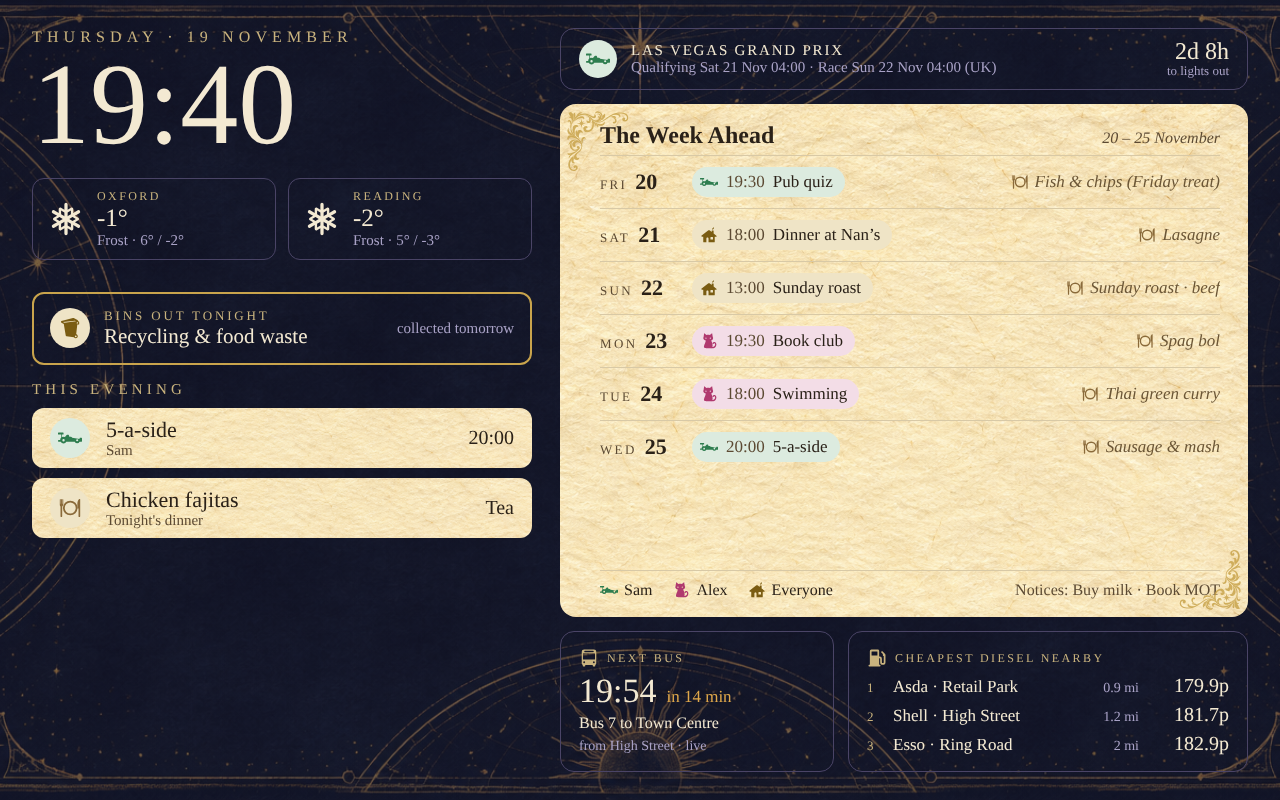
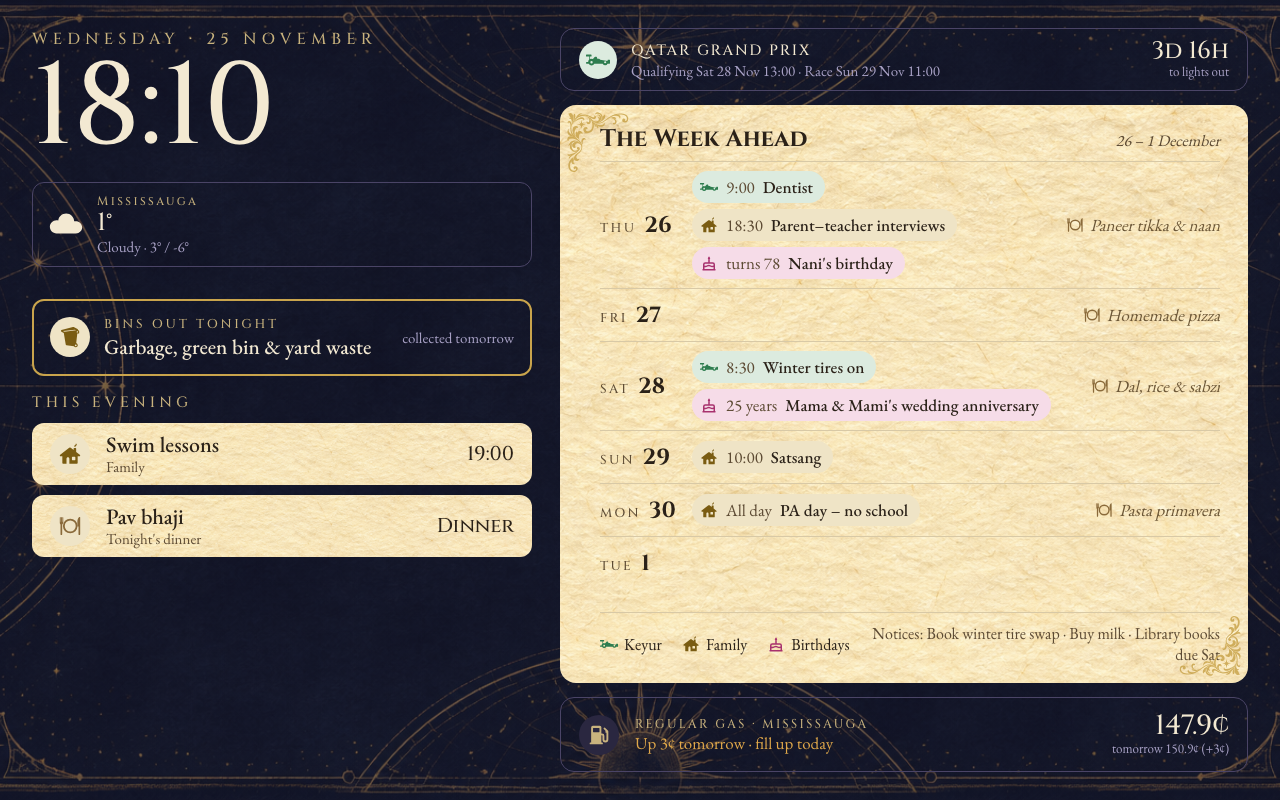
New README with fresh screenshots; fix night-mode frost line
- README rewritten for the family board: features, day-on-the-board screenshots,
  architecture diagram, old-iPad notes, setup, config, roadmap
- Screenshots retaken from the Canadian board (evening, iPad morning, night)
- Night mode: frost warning compared ISO times with a different date format and
  never showed; the info strip now wraps instead of running off screen

diff --git a/apps-script/Index.html b/apps-script/Index.html
@@ -84,7 +84,7 @@
       <span id="nClock" class="cz" style="font-size: 190px; line-height: 1; font-weight: 500; color: #8C86B0"></span>
       <span id="nMoon" class="row" style="gap: 10px; font-size: 18px; font-style: italic; color: #8C86B0"></span>
     </div>
-    <div id="nInfo" style="position: absolute; left: 50%; bottom: 72px; transform: translateX(-50%); display: flex; gap: 36px; align-items: center; padding: 14px 28px; border: 1px solid #2E2A48; border-radius: 999px; font-size: 18px; white-space: nowrap"></div>
+    <div id="nInfo" style="position: absolute; left: 50%; bottom: 60px; transform: translateX(-50%); display: flex; flex-wrap: wrap; justify-content: center; gap: 10px 36px; align-items: center; width: max-content; max-width: 1120px; padding: 14px 32px; border: 1px solid #2E2A48; border-radius: 32px; font-size: 18px"></div>
     <span id="nBattery" style="position: absolute; right: 28px; bottom: 24px; font-size: 14px; color: #8C86B0"></span>
   </div>
 </div>
@@ -455,12 +455,12 @@ function renderNight(now, p) {
   var adv = DATA && gasAdvice(DATA.gas);
   if (adv && DATA.gas.tomorrow.change >= 2 && minutesOfDay(now) >= NIGHT_FROM) info.push(svg('fuel', '#A9A2C6', 18) + '<span>Gas ' + esc(adv.text.toLowerCase()) + '</span>');
   var bTomorrow = DATA && DATA.birthdays ? bdaysOn(isoKey(now + (minutesOfDay(now) >= NIGHT_FROM ? 864e5 : 0))) : [];
-  if (bTomorrow.length) info.push(svg('cake', '#A9A2C6', 18) + '<span>' + esc(bTomorrow[0].title) + (bTomorrow.length > 1 ? ' +' + (bTomorrow.length - 1) : '') + '</span>');
-  $('nInfo').innerHTML = info.map(function (h) { return '<span class="row" style="gap: 8px">' + h + '</span>'; }).join('');
+  if (bTomorrow.length) info.push(svg('cake', '#A9A2C6', 18) + '<span>' + esc(bTomorrow[0].title) + ' tomorrow' + (bTomorrow.length > 1 ? ' (+' + (bTomorrow.length - 1) + ' more)' : '') + '</span>');
+  $('nInfo').innerHTML = info.map(function (h) { return '<span class="row" style="gap: 8px; white-space: nowrap">' + h + '</span>'; }).join('');
   $('nInfo').style.display = info.length ? 'flex' : 'none';
 }
 function nextMorningLow(w, now) {
-  var target = dayKey(now + (minutesOfDay(now) >= NIGHT_FROM ? 864e5 : 0));
+  var target = isoKey(now + (minutesOfDay(now) >= NIGHT_FROM ? 864e5 : 0));   // hourly times are ISO (2026-11-26T07:00)
   var low = null, h = w.hourly || { time: [], temp: [] };
   for (var i = 0; i < h.time.length; i++) {
     if (h.time[i].indexOf(target) === 0) {

diff --git a/web/index.html b/web/index.html
@@ -84,7 +84,7 @@
       <span id="nClock" class="cz" style="font-size: 190px; line-height: 1; font-weight: 500; color: #8C86B0"></span>
       <span id="nMoon" class="row" style="gap: 10px; font-size: 18px; font-style: italic; color: #8C86B0"></span>
     </div>
-    <div id="nInfo" style="position: absolute; left: 50%; bottom: 72px; transform: translateX(-50%); display: flex; gap: 36px; align-items: center; padding: 14px 28px; border: 1px solid #2E2A48; border-radius: 999px; font-size: 18px; white-space: nowrap"></div>
+    <div id="nInfo" style="position: absolute; left: 50%; bottom: 60px; transform: translateX(-50%); display: flex; flex-wrap: wrap; justify-content: center; gap: 10px 36px; align-items: center; width: max-content; max-width: 1120px; padding: 14px 32px; border: 1px solid #2E2A48; border-radius: 32px; font-size: 18px"></div>
     <span id="nBattery" style="position: absolute; right: 28px; bottom: 24px; font-size: 14px; color: #8C86B0"></span>
   </div>
 </div>
@@ -470,12 +470,12 @@ function renderNight(now, p) {
   var adv = DATA && gasAdvice(DATA.gas);
   if (adv && DATA.gas.tomorrow.change >= 2 && minutesOfDay(now) >= NIGHT_FROM) info.push(svg('fuel', '#A9A2C6', 18) + '<span>Gas ' + esc(adv.text.toLowerCase()) + '</span>');
   var bTomorrow = DATA && DATA.birthdays ? bdaysOn(isoKey(now + (minutesOfDay(now) >= NIGHT_FROM ? 864e5 : 0))) : [];
-  if (bTomorrow.length) info.push(svg('cake', '#A9A2C6', 18) + '<span>' + esc(bTomorrow[0].title) + (bTomorrow.length > 1 ? ' +' + (bTomorrow.length - 1) : '') + '</span>');
-  $('nInfo').innerHTML = info.map(function (h) { return '<span class="row" style="gap: 8px">' + h + '</span>'; }).join('');
+  if (bTomorrow.length) info.push(svg('cake', '#A9A2C6', 18) + '<span>' + esc(bTomorrow[0].title) + ' tomorrow' + (bTomorrow.length > 1 ? ' (+' + (bTomorrow.length - 1) + ' more)' : '') + '</span>');
+  $('nInfo').innerHTML = info.map(function (h) { return '<span class="row" style="gap: 8px; white-space: nowrap">' + h + '</span>'; }).join('');
   $('nInfo').style.display = info.length ? 'flex' : 'none';
 }
 function nextMorningLow(w, now) {
-  var target = dayKey(now + (minutesOfDay(now) >= NIGHT_FROM ? 864e5 : 0));
+  var target = isoKey(now + (minutesOfDay(now) >= NIGHT_FROM ? 864e5 : 0));   // hourly times are ISO (2026-11-26T07:00)
   var low = null, h = w.hourly || { time: [], temp: [] };
   for (var i = 0; i < h.time.length; i++) {
     if (h.time[i].indexOf(target) === 0) {

diff --git a/README.md b/README.md
@@ -1,72 +1,136 @@
-# Family Dashboard
+<div align="center">
 
-A free, always-on kitchen board for an old iPad or Android tablet, set up for a family in Mississauga, Ontario. It shows what the household needs at a glance: calendars, birthdays, the commute, bins, gas prices, notes and dinners. No subscriptions, no home server.
+# 🏡 Family Dashboard
 
-Based on [stewie1308-ui/FamilyDashboard](https://github.com/stewie1308-ui/FamilyDashboard), with the UK-only parts replaced by Canadian ones.
+**An always-on kitchen board for our family in Mississauga, running on an old iPad.**
 
-![Evening view](screenshots/evening.png)
+Calendars, birthdays, bins, gas prices, dinners and the F1 countdown, all in one place.<br>
+Free to run: no subscriptions, no home server, no app store.
 
-| Morning with a route alert | Night mode |
+![Platform](https://img.shields.io/badge/runs_on-old_iPad_·_Android_tablet-1C1A2E?style=flat-square)
+![Backend](https://img.shields.io/badge/backend-Google_Apps_Script-C9B37E?style=flat-square)
+![Cost](https://img.shields.io/badge/cost-$0%2Fmonth-2E7D4F?style=flat-square)
+![Licence](https://img.shields.io/badge/licence-MIT-A8326E?style=flat-square)
+
+![The board on a Wednesday evening](screenshots/evening.png)
+
+</div>
+
+---
+
+## ✨ What's on the board
+
+| | |
 |---|---|
-| ![Route alert](screenshots/alert.png) | ![Night](screenshots/night.png) |
+| 🕰 **Clock, date & weather** | Big serif clock, Mississauga weather, and a frost warning on cold mornings. |
+| 📅 **Today & the week ahead** | Pulled from the **Family** calendar (and Keyur's own), colour-coded per person. |
+| 🎂 **Birthdays & anniversaries** | From the *Birthdays and Anniversaries* calendar, with ages worked out from the year: "Nani's birthday · turns 78". |
+| 🗑 **Bins** | Peel's Thursday schedule: green bin weekly, garbage every other week, yard waste in season. "Bins out tonight" from 5pm the night before. |
+| ⛽ **Gas prices** | Today's Mississauga average and **tomorrow's predicted price** from [Gas Wizard](https://gaswizard.ca), with plain advice: *"Up 3¢ tomorrow · fill up today"*. |
+| 🍛 **Dinners** | From the family **meal tracker**. Nothing planned tonight? It suggests a favourite you haven't had in a while: *"How about chole bhature? Last had 6 weeks ago."* |
+| 🏎 **Formula 1** | Countdown to lights out, with qualifying and sprint times in Toronto time. |
+| 📝 **Notes** | A shared Todoist list anyone can add to from their phone. |
+| 🌙 **Night mode** | 23:00–06:30: a dim starry clock with tomorrow's essentials (bins, frost, first event, gas, birthdays). |
 
-## What it shows
+Every section is optional. Anything that isn't set up simply doesn't appear.
 
-- **Clock, date and weather** for up to two places, with frost warnings
-- **Today and the week ahead** from Google Calendar, colour-coded per person
-- **Birthdays and anniversaries** coming up, with ages ("turns 71")
-- **Commute:** live drive time and a leave-by time (adds extra minutes when it's frosty)
-- **Route alerts:** a push notification **only** when a crash or closure means a different route is quicker, with a one-tap Google Maps link. Morning and evening.
-- **Bins:** "bins out tonight", worked out from your collection pattern, so it stays out of your calendars
-- **Gas prices:** today's Mississauga average and tomorrow's predicted price from Gas Wizard, with "fill up today" or "wait" advice
-- **Formula 1 countdown**
-- **Dinners** from the family meal tracker, with a "haven't had it in a while" idea on unplanned nights
-- **Notes** from a shared Todoist project, so everyone can add them from their phones
-- **Night mode** (23:00–06:30): dimmed clock, moon phase, and a "bins / frost / tomorrow" line
+## 📸 A day on the board
 
-Every section is optional. Anything you don't set up simply doesn't appear.
+<table>
+<tr>
+<td width="50%"><img src="screenshots/ipad-morning.png" alt="Thursday morning on the iPad"></td>
+<td width="50%"><img src="screenshots/night.png" alt="Night mode"></td>
+</tr>
+<tr>
+<td><b>Thursday 7:38am, iPad (4:3).</b> A birthday, collection day, tonight's plans, and a dinner idea because nothing's planned yet.</td>
+<td><b>Wednesday 11:30pm, night mode.</b> Bins out, frost by morning, gas going up, and whose birthday it is tomorrow.</td>
+</tr>
+</table>
 
-## How it works
+## 🧱 How it works
 
+```mermaid
+flowchart LR
+    iPad["📱 Old iPad<br/>Safari · Guided Access"] -- "every 2 min" --> Script["⚙ Google Apps Script<br/>(our Google account, free)"]
+    Script --> Cal["📅 Google Calendar<br/>Family · Birthdays"]
+    Script --> Weather["🌤 Open-Meteo"]
+    Script --> Gas["⛽ Gas Wizard"]
+    Script --> Meals["🍛 Meal tracker<br/>(Supabase)"]
+    Script --> F1["🏎 Jolpica F1"]
+    Script --> Todo["📝 Todoist"]
 ```
-iPad (Safari, Guided Access) or Android tablet (Fully Kiosk Browser)
-   └─ board page (web/index.html, on GitHub Pages or Netlify)
-         └─ every 2 min asks for JSON ─► Google Apps Script (your account, free)
-                                            ├─ Google Calendar, Maps (traffic), Tasks
-                                            ├─ Open-Meteo (weather), Jolpica (F1)
-                                            ├─ Gas Wizard (gas prices), Todoist (notes)
-                                            ├─ meal tracker on Supabase (dinners)
-                                            └─ ntfy (push alerts)
+
+- **The board** is a single HTML page ([`web/index.html`](web/index.html)) laid out at 1280×800, or 1280×960 on a 4:3 iPad, and scaled to fit the screen.
+- **The data** comes from a small Google Apps Script ([`apps-script/`](apps-script)) that runs in our own Google account. It gathers every feed, caches it, and hands the board one JSON object. If one feed fails, the rest keep working.
+- **Secrets** (Supabase key, Todoist token) live in Apps Script's **Script properties**, never in this repo.
+
+## 🍎 Built for an old iPad
+
+The tablet is a retired iPad that stays on in the kitchen all the time, so the page is careful about old Safari:
+
+- Works on **iOS 10.3 and newer**. Spacing that old Safari can't do is replaced with margins, it uses `XMLHttpRequest` instead of `fetch`, and it falls back to the iPad's own clock if time zones aren't supported.
+- On 4:3 screens it **grows taller** instead of leaving black bars, and the week panel gets the extra room.
+- Reloads itself at 4am every night to clear memory.
+
+**Kiosk setup:** open the board in Safari → Share → **Add to Home Screen**. Then go to Settings → Display → **Auto-Lock: Never**, and turn on Settings → Accessibility → **Guided Access** (triple-click the Home button to lock the board on screen).
+
+## 🚀 Setting it up
+
+1. **Copy the script:** create a project at [script.google.com](https://script.google.com) and add the four files from [`apps-script/`](apps-script).
+2. **Edit [`Config.gs`](apps-script/Config.gs):** people and colours, calendars, weather place, bin schedule, gas city and type. It's the only file you need to touch.
+3. **Add secrets** in Project Settings → Script properties (only for the sections you want):
+
+   | Property | For |
+   |---|---|
+   | `SUPABASE_URL`, `SUPABASE_SERVICE_KEY` | dinners from the meal tracker |
+   | `TODOIST_TOKEN` | shared notes |
+   | `NTFY_TOPIC`, `NTFY_TOKEN` | commute route alerts |
+
+4. **Run `setup`**, then **Deploy → New deployment → Web app** (Execute as: *Me*, Who has access: *Anyone*).
+5. **Open the board link** on the iPad. The repo is private, so use the Apps Script link directly or a private Netlify Drop copy ([setup step 4](docs/setup.md#4-host-the-board-page)).
+
+Handy checks in the Apps Script editor: `testEverything`, `testCalendars`, `testBirthdays`, `testNotes`.
+
+> **Changed the board page?** Edit `web/index.html`, then run `python3 tools/sync-apps-script-page.py` to update `apps-script/Index.html` to match.
+
+## 🛠 Configuration at a glance
+
+```js
+TIMEZONE: 'America/Toronto',
+FAMILY_CALENDAR: 'Family',
+BIRTHDAY_CALENDAR: '…@group.calendar.google.com',   // Birthdays and Anniversaries
+PLACES: [{ name: 'Mississauga', lat: 43.5890, lon: -79.6441 }],
+
+BIN_DAY: 4,                          // Thursday
+BIN_CYCLE: ['Garbage', ''],          // garbage every other week
+BIN_EVERY_WEEK: 'green bin',
+BIN_SEASONAL: [{ label: 'yard waste', from: '2026-11-01', until: '2026-12-10' }],
+
+GAS_CITY: 'mississauga',  GAS_TYPE: 'Regular',   // or 'Premium' / 'Diesel'
+MEAL_SUGGEST: true,                  // "haven't had it in a while" ideas
 ```
 
-Everything runs on free tiers. Your keys stay in your own Apps Script **Script properties**, never in this repo.
+Everything is explained in [docs/modules.md](docs/modules.md).
 
-## Quick start (about 15 minutes for the basics)
+## 🗺 Roadmap
 
-1. **Copy the script:** create a new project at [script.google.com](https://script.google.com) and add the four files from [`apps-script/`](apps-script).
-2. **Edit `Config.gs`:** names, colours, weather places, bin day. Leave anything you don't want empty.
-3. **Run `setup`**, then **Deploy → New deployment → Web app** (Execute as: Me, Who has access: Anyone).
-4. **Host the page:** see [docs/setup.md](docs/setup.md#4-host-the-board-page).
-5. **Set up the tablet:** see [docs/tablet.md](docs/tablet.md).
+- [x] Family & birthday calendars, Toronto time
+- [x] Peel bin schedule with seasonal yard waste
+- [x] Gas prices with tomorrow's prediction
+- [x] Dinners and ideas from the meal tracker
+- [x] Old-iPad support and 4:3 layout
+- [ ] Blue box recycling day
+- [ ] Kids' chore chart
+- [ ] Photo slideshow from a Google Drive folder
+- [ ] Own name and colour for each family member
 
-The full walkthrough is in [docs/setup.md](docs/setup.md). Optional extras (route alerts, gas prices, birthdays, notes and dinners) are in [docs/modules.md](docs/modules.md).
+## 📚 Docs
 
-## Make it yours
+[Setup](docs/setup.md) · [Tablet & kiosk](docs/tablet.md) · [Modules](docs/modules.md) · [Design](docs/design.md) · [Troubleshooting](docs/troubleshooting.md)
 
-The look is a dark "enchanted library" theme: parchment panels, gold details and a starry night mode. You can change the colours, icons and artwork, with or without an AI image tool. See [docs/design.md](docs/design.md).
+## 🙏 Credits
 
-## Docs
+Built on the lovely [stewie1308-ui/FamilyDashboard](https://github.com/stewie1308-ui/FamilyDashboard), including its "enchanted library" design and Higgsfield artwork. The UK-only parts (bus times, UK fuel prices) were swapped for Canadian ones.
+Data from [Open-Meteo](https://open-meteo.com), [Gas Wizard](https://gaswizard.ca), [Jolpica F1](https://github.com/jolpica/jolpica-f1), Google Calendar and Todoist.
 
-- [Setup](docs/setup.md)
-- [Tablet and kiosk](docs/tablet.md)
-- [Optional modules](docs/modules.md)
-- [Customising the design](docs/design.md)
-- [Troubleshooting](docs/troubleshooting.md)
-
-## Tested on
-
-The original was tested on a Lenovo Tab M10 HD (Android 10) with Fully Kiosk Browser. This version adds support for older iPads (Safari on iOS 10.3 and newer, 4:3 layout); see [Old iPads](docs/modules.md#old-ipads).
-
-## Licence
-
-MIT. See [LICENSE](LICENSE).
+MIT licence. See [LICENSE](LICENSE).
